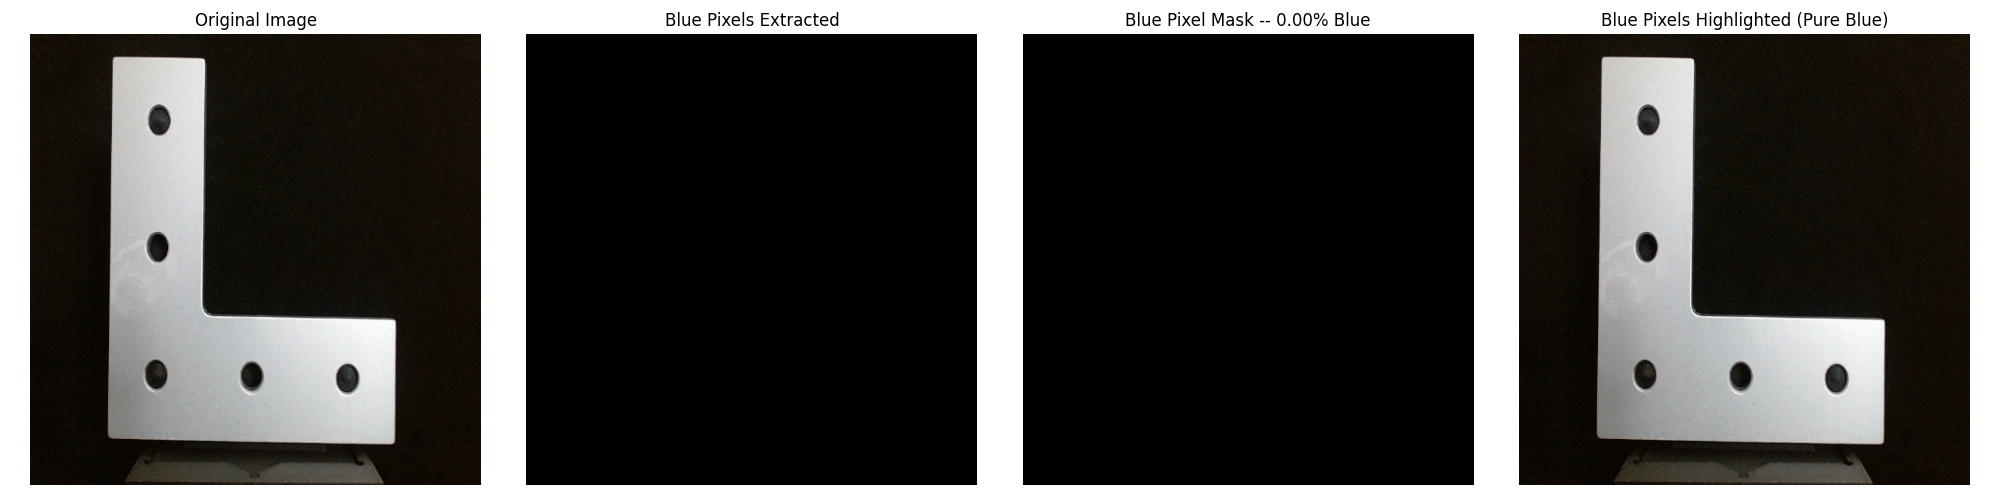
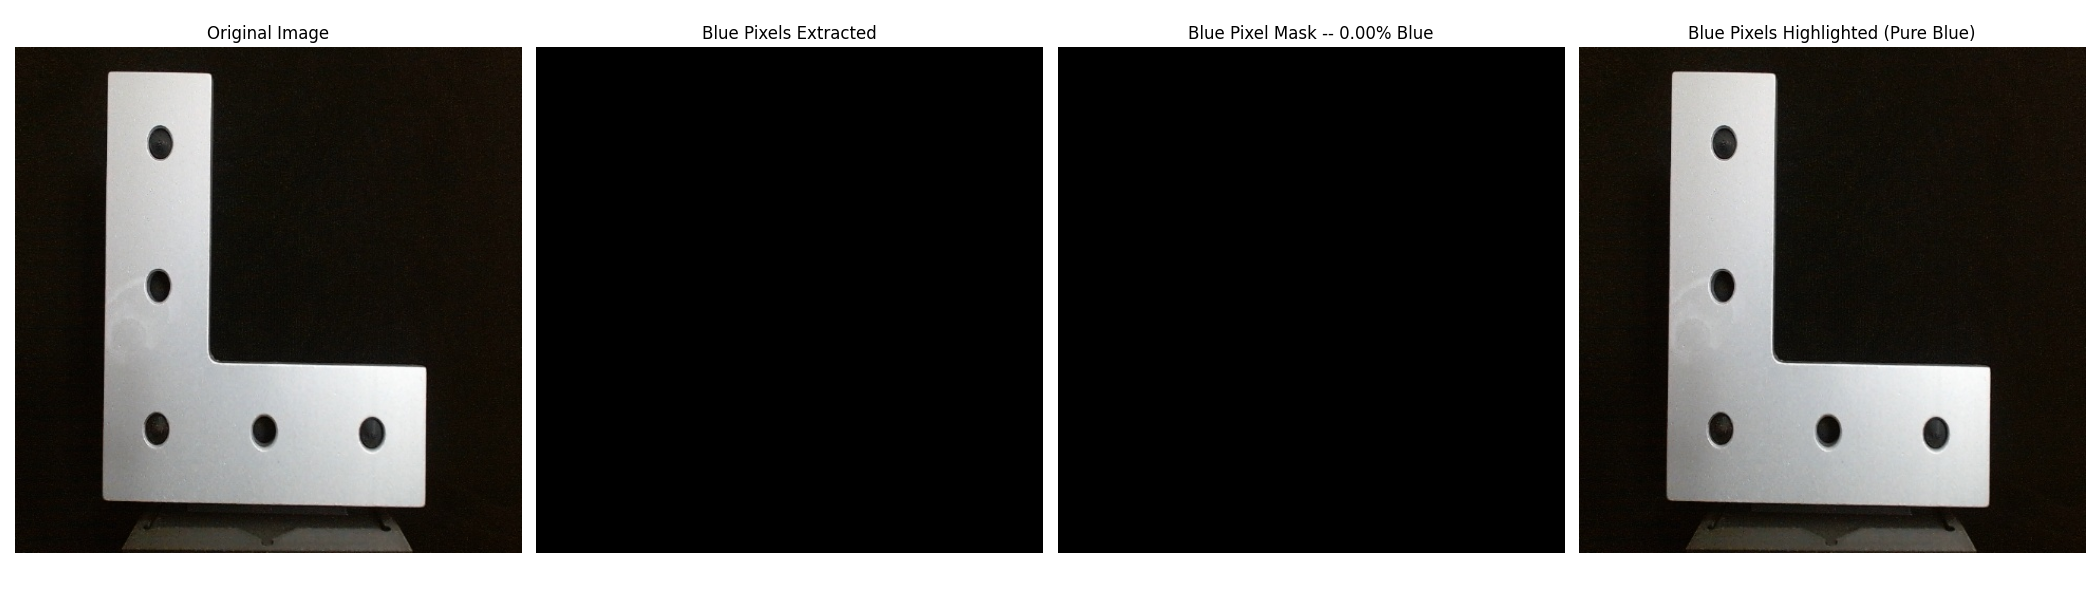
Add new and edited files

diff --git a/pres_scratch.py b/pres_scratch.py
@@ -1,0 +1,81 @@
+import cv2
+import numpy as np
+import matplotlib.pyplot as plt
+from skimage.filters import frangi
+from skimage import util
+
+# 1) Load image1.jpg
+img1 = cv2.imread("pres_scratch.jpg")
+if img1 is None:
+    raise FileNotFoundError("image1.jpg not found in current directory.")
+
+# Convert to RGB for display later
+img1_rgb = cv2.cvtColor(img1, cv2.COLOR_BGR2RGB)
+
+# 2) Convert image1 to grayscale
+gray1 = cv2.cvtColor(img1, cv2.COLOR_BGR2GRAY)
+
+# 3) Apply Frangi filter
+vesselness = frangi(gray1, sigmas=np.arange(1, 5, 1), black_ridges=True)
+
+# 4) Convert float image (0–1) to 8-bit (0–255)
+vesselness_img = util.img_as_ubyte(vesselness)
+
+# 5) Load image2.jpg
+img2 = cv2.imread("pres_scratch_keepout.jpg")
+if img2 is None:
+    raise FileNotFoundError("image2.jpg not found in current directory.")
+
+img2_rgb = cv2.cvtColor(img2, cv2.COLOR_BGR2RGB)
+
+# 6) Pick out red pixels from image2
+# Since OpenCV loads in BGR format:
+# Red ≈ [255,0,0] in RGB → [0,0,255] in BGR
+blue_channel = img2[:, :, 0]
+green_channel = img2[:, :, 1]
+red_channel = img2[:, :, 2]
+
+# Create mask for strong red pixels
+red_mask = (
+    (red_channel > 200) &
+    (green_channel < 50) &
+    (blue_channel < 50)
+)
+
+# 7) Compare the two images
+# Condition:
+# - Frangi pixel value > 20
+# - Pixel location is red in image2
+
+highlight_img = img1_rgb.copy()
+
+condition = (vesselness_img > 20) & red_mask
+
+# Highlight those pixels in red on image1
+highlight_img[condition] = [255, 0, 0]  # RGB red
+
+# 8) Show results
+plt.figure(figsize=(21, 6))
+
+plt.subplot(1, 4, 1)
+plt.imshow(img1_rgb)
+plt.title("Original Image")
+plt.axis("off")
+
+plt.subplot(1, 4, 2)
+plt.imshow(vesselness_img, cmap="gray")
+plt.title("Image After Frangi Filter")
+plt.axis("off")
+
+plt.subplot(1, 4, 3)
+plt.imshow(img2_rgb)
+plt.title("Part Scan Zone")
+plt.axis("off")
+
+plt.subplot(1, 4, 4)
+plt.imshow(highlight_img)
+plt.title("Highlighted Defects")
+plt.axis("off")
+
+plt.tight_layout()
+plt.show()

diff --git a/discoloration.py b/discoloration.py
@@ -3,7 +3,7 @@ import numpy as np
 import matplotlib.pyplot as plt
 
 # 1) Load the image
-image = cv2.imread("pres_discoloration.jpg")
+image = cv2.imread("pres_good.jpg")
 
 if image is None:
     raise FileNotFoundError("image.jpg not found in the current directory.")
@@ -34,26 +34,26 @@ overlay_image = image_rgb.copy()
 overlay_image[mask > 0] = [0, 0, 255]
 
 # 6) Display results
-plt.figure(figsize=(20, 5))
+plt.figure(figsize=(21, 6))
 
 plt.subplot(1, 4, 1)
 plt.imshow(image_rgb)
-plt.title("\nOriginal Image")
+plt.title("Original Image")
 plt.axis("off")
 
 plt.subplot(1, 4, 2)
 plt.imshow(blue_only)
-plt.title("\nBlue Pixels Extracted")
+plt.title("Blue Pixels Extracted")
 plt.axis("off")
 
 plt.subplot(1, 4, 3)
 plt.imshow(mask, cmap="gray")
-plt.title(f"\nBlue Pixel Mask -- {percentage_blue:.2f}% Blue")
+plt.title(f"Blue Pixel Mask -- {percentage_blue:.2f}% Blue")
 plt.axis("off")
 
 plt.subplot(1, 4, 4)
 plt.imshow(overlay_image)
-plt.title("\nBlue Pixels Highlighted (Pure Blue)")
+plt.title("Blue Pixels Highlighted (Pure Blue)")
 plt.axis("off")
 
 plt.tight_layout()

diff --git a/missing_feature.py b/missing_feature.py
@@ -3,7 +3,7 @@ import numpy as np
 import matplotlib.pyplot as plt
 
 # 1) Load the image
-image = cv2.imread("pres_missing_feature.jpg")
+image = cv2.imread("pres_good.jpg")
 
 if image is None:
     raise FileNotFoundError("image.jpg not found in the current directory.")
@@ -54,26 +54,26 @@ image_rgb = cv2.cvtColor(image, cv2.COLOR_BGR2RGB)
 highlight_rgb = cv2.cvtColor(highlight_image, cv2.COLOR_BGR2RGB)
 
 # Display results
-plt.figure(figsize=(15, 5))
+plt.figure(figsize=(21, 6))
 
 plt.subplot(1, 4, 1)
 plt.imshow(image_rgb)
-plt.title("\nOriginal Image")
+plt.title("Original Image")
 plt.axis("off")
 
 plt.subplot(1, 4, 2)
 plt.imshow(binarized, cmap="gray")
-plt.title("\nBinarized Image")
+plt.title("Binarized Image")
 plt.axis("off")
 
 plt.subplot(1, 4, 3)
 plt.imshow(eroded_binary, cmap="gray")
-plt.title("\nEroded Binarized Image")
+plt.title("Eroded Binarized Image")
 plt.axis("off")
 
 plt.subplot(1, 4, 4)
 plt.imshow(highlight_rgb)
-plt.title("\nSelect Locations Highlighted")
+plt.title("Select Locations Highlighted")
 plt.axis("off")
 
 plt.tight_layout()
